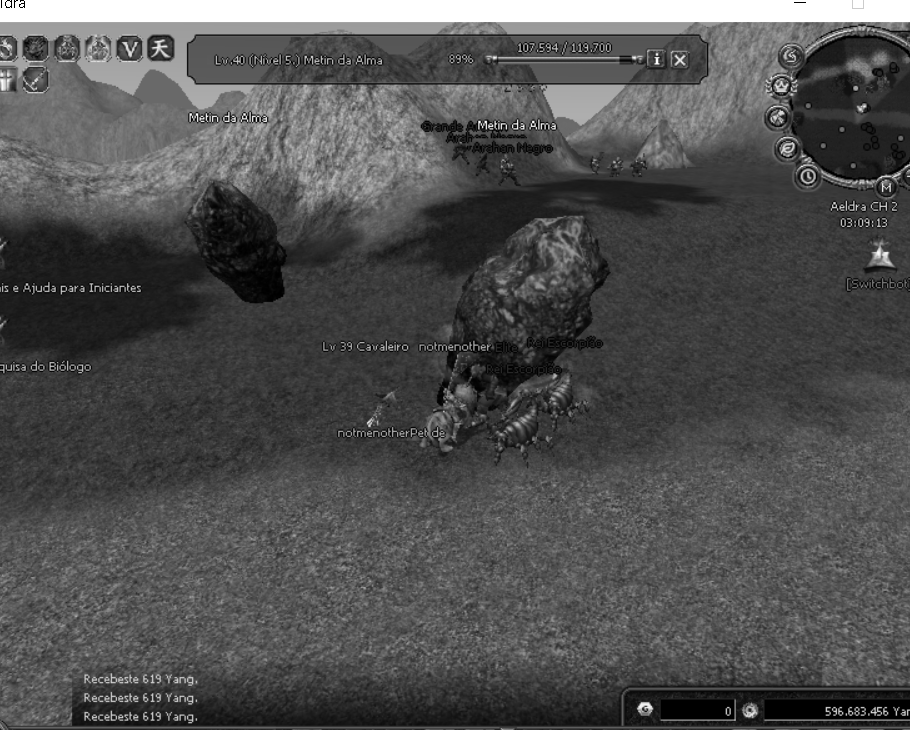
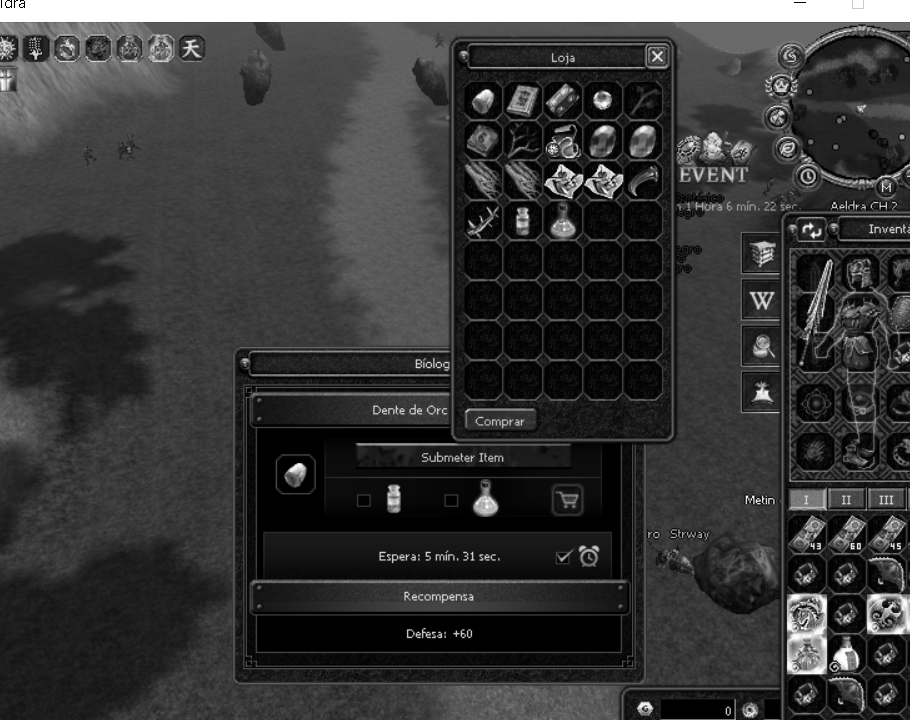
shortened and improved functions. Biologist works but escape doesn't so it stll wont do

diff --git a/Test.py b/Test.py
@@ -8,8 +8,16 @@ import cv2 as cv
 import numpy as np
 import copy
 METINTEXTDISTANCE = 60
+deliver_button_size = 10
+market_button_size = 10
+orc_tooth_button_size = 10
+submit_button_size = 10
 metin_health_bar_image = 'C:\\Users\\gil-t\\Downloads\\MetinBot-main\\images\\metin_hp.png'
 logged_out_image = 'C:\\Users\\gil-t\\Downloads\\MetinBot-main\\images\\logged_out_right.png'
+biologist_deliver = 'C:\\Users\\gil-t\\Downloads\\MetinBot-main\\images\\biologist\\deliver.png'
+biologist_market = 'C:\\Users\\gil-t\\Downloads\\MetinBot-main\\images\\biologist\\market.png'
+biologist_orc_tooth = 'C:\\Users\\gil-t\\Downloads\\MetinBot-main\\images\\biologist\\orc_tooth.png'
+biologist_submit = 'C:\\Users\\gil-t\\Downloads\\MetinBot-main\\images\\biologist\\submit_text.png'
 healthbarnotempty = False
 pickupkeypressed = False
 healthbar_located = False
@@ -38,29 +46,34 @@ class Metin:
             
             return res
 
-    def handleLogout(client):
+    def handleLogout(clients, client):
+        print("here")
         pyautogui.moveTo(client["window_top"][0] , client["window_top"][1] , 0.2)
         autoit.mouse_click("left",client["window_top"][0], client["window_top"][1], 2)
-        print('f' + str(clients.index(client) + 2))
         pydirectinput.press('f' + str(clients.index(client) + 2))
         time.sleep(2)
+        pyautogui.moveTo(client["window_top"][0] , client["window_top"][1] , 0.2)
+        autoit.mouse_click("left",client["window_top"][0], client["window_top"][1], 2)
         pyautogui.press('enter')
+        pyautogui.press('enter')
+        pyautogui.press('enter')
+        time.sleep(2)
+        
+        pyautogui.moveTo(client["window_top"][0] , client["window_top"][1] , 0.2)
+        autoit.mouse_click("left",client["window_top"][0], client["window_top"][1], 2)
+        Metin.useSkills(client)
+        print("here2")
+
 
 
     def locateAllandFilterProp(client, prop_image, prop_type):
+        known_types = ["metin_health_bar" ,"logged_out", "deliver", "market", "orc_tooth", "submit"]
         prop_locations = pyautogui.locateAllOnScreen(prop_image, confidence=0.9, grayscale=True)
         for prop_location in prop_locations:
-            if prop_type == "metin_health_bar":
-                if prop_location[0] < client["healthbar"][0] + 850 and prop_location[0] > client["healthbar"][0] and prop_location[1] < client["healthbar"][1] and prop_location[1] > client["healthbar"][1] - 700:
+            print(prop_location)
+            if prop_location[0] > client["healthbar"][0] and prop_location[0] < client["healthbar"][0] + 800 and prop_location[1] < client["healthbar"][1] and prop_location[1] > client["healthbar"][1] - 900:
+                if known_types.__contains__(prop_type):
                     return prop_location
-            elif prop_type == "logged_out":
-                #if prop_location[0] < client["healthbar"][0] and prop_location[1] < client["healthbar"][1] and prop_location[1] > client["healthbar"][1] - 700:  
-                print(prop_location)
-                return prop_location
-
-
-                if not target:
-                    return False
                 
 
     def checkIfMetinStillAlive(client):
@@ -68,7 +81,7 @@ class Metin:
         template = cv.imread('C:\\Users\\gil-t\\Downloads\\MetinBot-main\\images\\metin_writing.png',0)
         w, h = template.shape[::-1]
         while not metinhealthbarlocation:
-            metinhealthbarlocation = Metin.locateAllandFilterProp(client, metin_health_bar_image, "metin_health_bar1")
+            metinhealthbarlocation = Metin.locateAllandFilterProp(client, metin_health_bar_image, "metin_health_bar")
             screenshot = np.array(pyautogui.screenshot()) 
             img_gray = cv.cvtColor(screenshot, cv.COLOR_BGR2GRAY)
             if metinhealthbarlocation:
@@ -97,18 +110,29 @@ class Metin:
             print('Pixelcolor: ' + str(pixelcolor))
             return False
 
-    def collectLoot():
+    def collectLoot(client):
         print('collecting loot')
+        pyautogui.moveTo(client["window_top"][0] , client["window_top"][1] , 0.2)
+        autoit.mouse_click("left",client["window_top"][0], client["window_top"][1], 2)
         pydirectinput.press('z', 3, interval=0.1) #cause of us layout
 
 
     def findMetinOpenCV(client):
-        metinhealthbarlocation = Metin.locateAllandFilterProp(client, metin_health_bar_image, "metin_health_bar1")
+        metinhealthbarlocation = Metin.locateAllandFilterProp(client, metin_health_bar_image, "metin_health_bar")
         if metinhealthbarlocation:
             print("Bugged! Trying again!")
-            pyautogui.press('esc')
+            pyautogui.keyDown('esc')
+            pyautogui.keyDown('a')
+            pyautogui.keyDown('s')
+            pyautogui.sleep(3)
+            pyautogui.keyUp('a')
+            pyautogui.keyUp('s')
+            pyautogui.press('q')
+            pyautogui.press('q')
+            pyautogui.keyUp('esc')
+            Metin.collectLoot(client)
             return False
-        screenshot = np.array(pyautogui.screenshot())[ client["healthbar"][1] - 730 : client["healthbar"][1], client["healthbar"][0] - 10 :client["healthbar"][0] + 900]
+        screenshot = np.array(pyautogui.screenshot())[ client["healthbar"][1] - 730 : client["healthbar"][1] - 10, client["healthbar"][0] - 10 :client["healthbar"][0] + 900]
         img_gray = cv.cvtColor(screenshot, cv.COLOR_BGR2GRAY)
         template = cv.imread('C:\\Users\\gil-t\\Downloads\\MetinBot-main\\images\\metin_writing.png',0)
         w, h = template.shape[::-1]
@@ -144,7 +168,9 @@ class Metin:
         #pydirectinput.D('left')
         #pydirectinput.keyUp('left')
 
-    def useSkills():
+    def useSkills(client):
+        pyautogui.moveTo(client["window_top"][0] , client["window_top"][1] , 0.2)
+        autoit.mouse_click("left",client["window_top"][0], client["window_top"][1], 2)
         print('Using skills!')
         pydirectinput.keyDown('ctrl')
         pydirectinput.press('h')
@@ -157,11 +183,54 @@ class Metin:
         pydirectinput.keyDown('ctrl')
         pydirectinput.press('h')
         pydirectinput.keyUp('ctrl')
+
+    def biologist(client):
+        print("biologist!")
+        pyautogui.moveTo(client["window_top"][0] , client["window_top"][1] , 0.2)
+        autoit.mouse_click("left",client["window_top"][0], client["window_top"][1], 2)
+        biologist_deliver_location = Metin.locateAllandFilterProp(client, biologist_deliver, "deliver")
+        if(biologist_deliver_location):
+            pyautogui.moveTo(int((biologist_deliver_location[0] + biologist_deliver_location[0] + deliver_button_size)/2) , int((biologist_deliver_location[1] + biologist_deliver_location[1] + deliver_button_size)/2) , 0.2)
+            autoit.mouse_click("left",int((biologist_deliver_location[0] + biologist_deliver_location[0] + deliver_button_size)/2), int((biologist_deliver_location[1] + biologist_deliver_location[1] + deliver_button_size)/2), 2)
+            biologist_market_location = [0,0,10,10]
+            pyautogui.sleep(1)
+            biologist_submit_location = Metin.locateAllandFilterProp(client, biologist_submit, "submit")
+            if biologist_submit_location:
+                biologist_market_location[0] = biologist_submit_location[0] + biologist_submit_location[2] + 42 
+                biologist_market_location[1] = biologist_submit_location[1] + 47
+                pyautogui.sleep(1)
+                pyautogui.moveTo(int((biologist_market_location[0] + biologist_market_location[0] + market_button_size)/2) , int((biologist_market_location[1] + biologist_market_location[1] + market_button_size)/2) , 0.2)
+                autoit.mouse_click("left",int((biologist_market_location[0] + biologist_market_location[0] + market_button_size)/2), int((biologist_market_location[1] + biologist_market_location[1] + market_button_size)/2), 2)
+                pyautogui.sleep(4)
+                biologist_orc_tooth_location = Metin.locateAllandFilterProp(client, biologist_orc_tooth, "orc_tooth")
+                if biologist_orc_tooth_location:
+                    pyautogui.moveTo(int((biologist_orc_tooth_location[0] + biologist_orc_tooth_location[0] + orc_tooth_button_size)/2) , int((biologist_orc_tooth_location[1] + biologist_orc_tooth_location[1] + orc_tooth_button_size)/2) , 0.2)
+                    autoit.mouse_click("right",int((biologist_orc_tooth_location[0] + biologist_orc_tooth_location[0] + orc_tooth_button_size)/2), int((biologist_orc_tooth_location[1] + biologist_orc_tooth_location[1] + orc_tooth_button_size)/2), 2)
+                    pyautogui.press('esc')
+                    pyautogui.sleep(2)
+                    if biologist_submit_location:
+                        pyautogui.moveTo(int((biologist_submit_location[0] + biologist_submit_location[0] + submit_button_size)/2) , int((biologist_submit_location[1] + biologist_submit_location[1] + submit_button_size)/2) , 0.2)
+                        autoit.mouse_click("left",int((biologist_submit_location[0] + biologist_submit_location[0] + submit_button_size)/2), int((biologist_submit_location[1] + biologist_submit_location[1] + submit_button_size)/2), 2)
+                        pyautogui.sleep(1)
+                        pyautogui.moveTo(client["window_top"][0], client["window_top"][1], 0.2)
+                        autoit.mouse_click("left",client["window_top"][0], client["window_top"][1],2)
+                        pyautogui.press('esc')
+                else:
+                    pyautogui.sleep(1)
+                    pyautogui.moveTo(client["window_top"][0], client["window_top"][1], 0.2)
+                    autoit.mouse_click("left",client["window_top"][0], client["window_top"][1],2)
+                    pyautogui.press('esc')
+            pyautogui.sleep(1)
+            pyautogui.moveTo(int((biologist_orc_tooth_location[0] + biologist_orc_tooth_location[0] + orc_tooth_button_size)/2) , int((biologist_orc_tooth_location[1] + biologist_orc_tooth_location[1] + orc_tooth_button_size)/2) , 0.2)
+            autoit.mouse_click("right",int((biologist_orc_tooth_location[0] + biologist_orc_tooth_location[0] + orc_tooth_button_size)/2), int((biologist_orc_tooth_location[1] + biologist_orc_tooth_location[1] + orc_tooth_button_size)/2), 2)
+            pyautogui.press('esc')
+
     
 def run_bot():
     # Locate the Healthbar for init
     healthbarlocations = 0
-
+    #print(pyautogui.locateOnScreen(biologist_submit))
+    #return
     while not healthbarlocations:
         healthbarlocations = Metin.locateHealthBar()
     for location in healthbarlocations:
@@ -174,16 +243,18 @@ def run_bot():
         clients.append(copy.deepcopy(append_dict))
     while True:
         for client in clients:
+            Metin.biologist(client)
             loggout_location = Metin.locateAllandFilterProp(client, logged_out_image, "logged_out")
             if loggout_location:
-                Metin.handleLogout(client)
+                Metin.handleLogout(clients, client)
+                
                 
             pyautogui.moveTo(client["window_top"][0], client["window_top"][1], 0.2)
             autoit.mouse_click("left",client["window_top"][0], client["window_top"][1],2)
             
             if( time.time() - client["skills_timer"] > 300):
                 client["skills_timer"] = time.time()
-                Metin.useSkills()
+                Metin.useSkills(client)
             #try to find a metin:
             #metinhealthbarlocation = Metin.locateMetinHealthBar()
             
@@ -192,6 +263,14 @@ def run_bot():
                     pyautogui.press('esc')
                 if Metin.findMetinOpenCV(client):
                     client["bugged_timer"] = time.time()
+                    pyautogui.keyDown('a')
+                    pyautogui.keyDown('s')
+                    pyautogui.sleep(3)
+                    pyautogui.keyUp('a')
+                    pyautogui.keyUp('s')
+                    pyautogui.press('q')
+                    pyautogui.press('q')
+                    
                     client["farming"] = True
                     break
                 else:
@@ -200,14 +279,21 @@ def run_bot():
                     break
                 #check if the metin is still alive
             if Metin.checkIfMetinStillAlive(client):
-                if(time.time() - client["bugged_timer"] > 20):
+                if(time.time() - client["bugged_timer"] > 60):
+                    pyautogui.press('esc')
+                    pyautogui.press('esc')
                     pyautogui.press('d')
                     pyautogui.press('d')
+                    print("UnBugging!")
+                    client["farming"] = False
+                    client["bugged_timer"] = time.time()
+                    Metin.collectLoot(client)
+                    break
             else:
                 client["farming"] = False
                 pyautogui.moveTo(client["window_top"][0], client["window_top"][1], 0.2)
                 autoit.mouse_click("left",client["window_top"][0], client["window_top"][1],2)
-                Metin.collectLoot()
+                Metin.collectLoot(client)
                 if Metin.findMetinOpenCV(client):
                     client["bugged_timer"] = time.time()
                     client["farming"] = True
@@ -216,7 +302,7 @@ def run_bot():
 
 
 if __name__ == '__main__':
-    run_bot()
+        run_bot()
 
 # while True:
 #     if not Metin.findMetinOpenCV():
